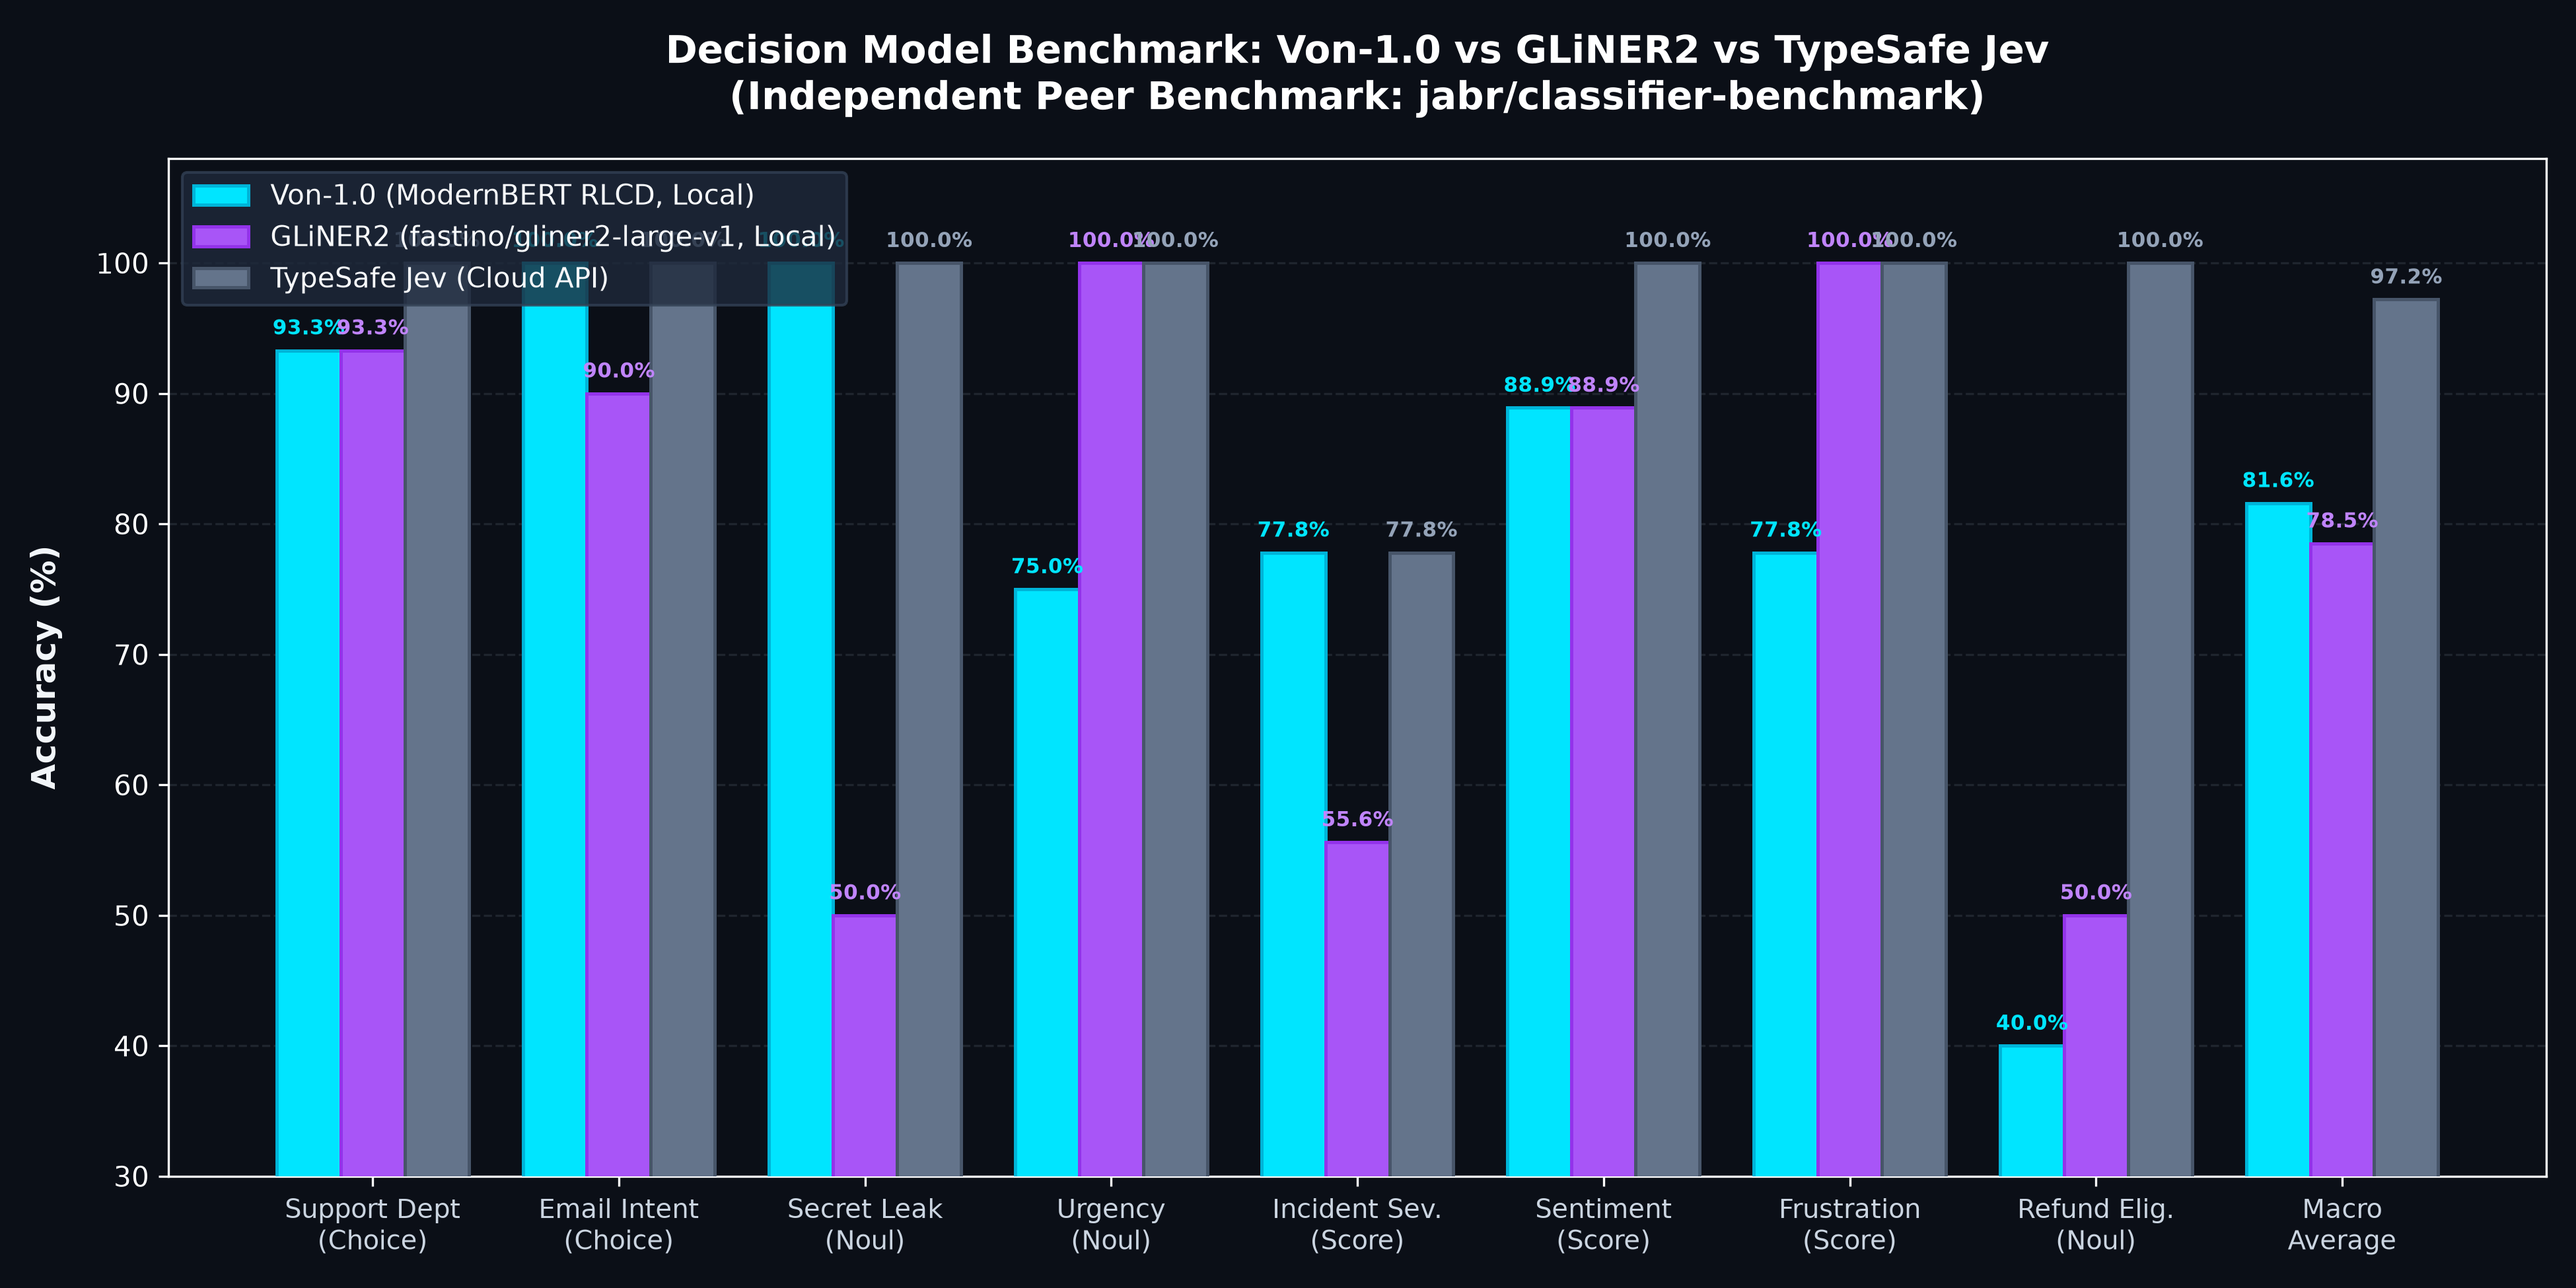
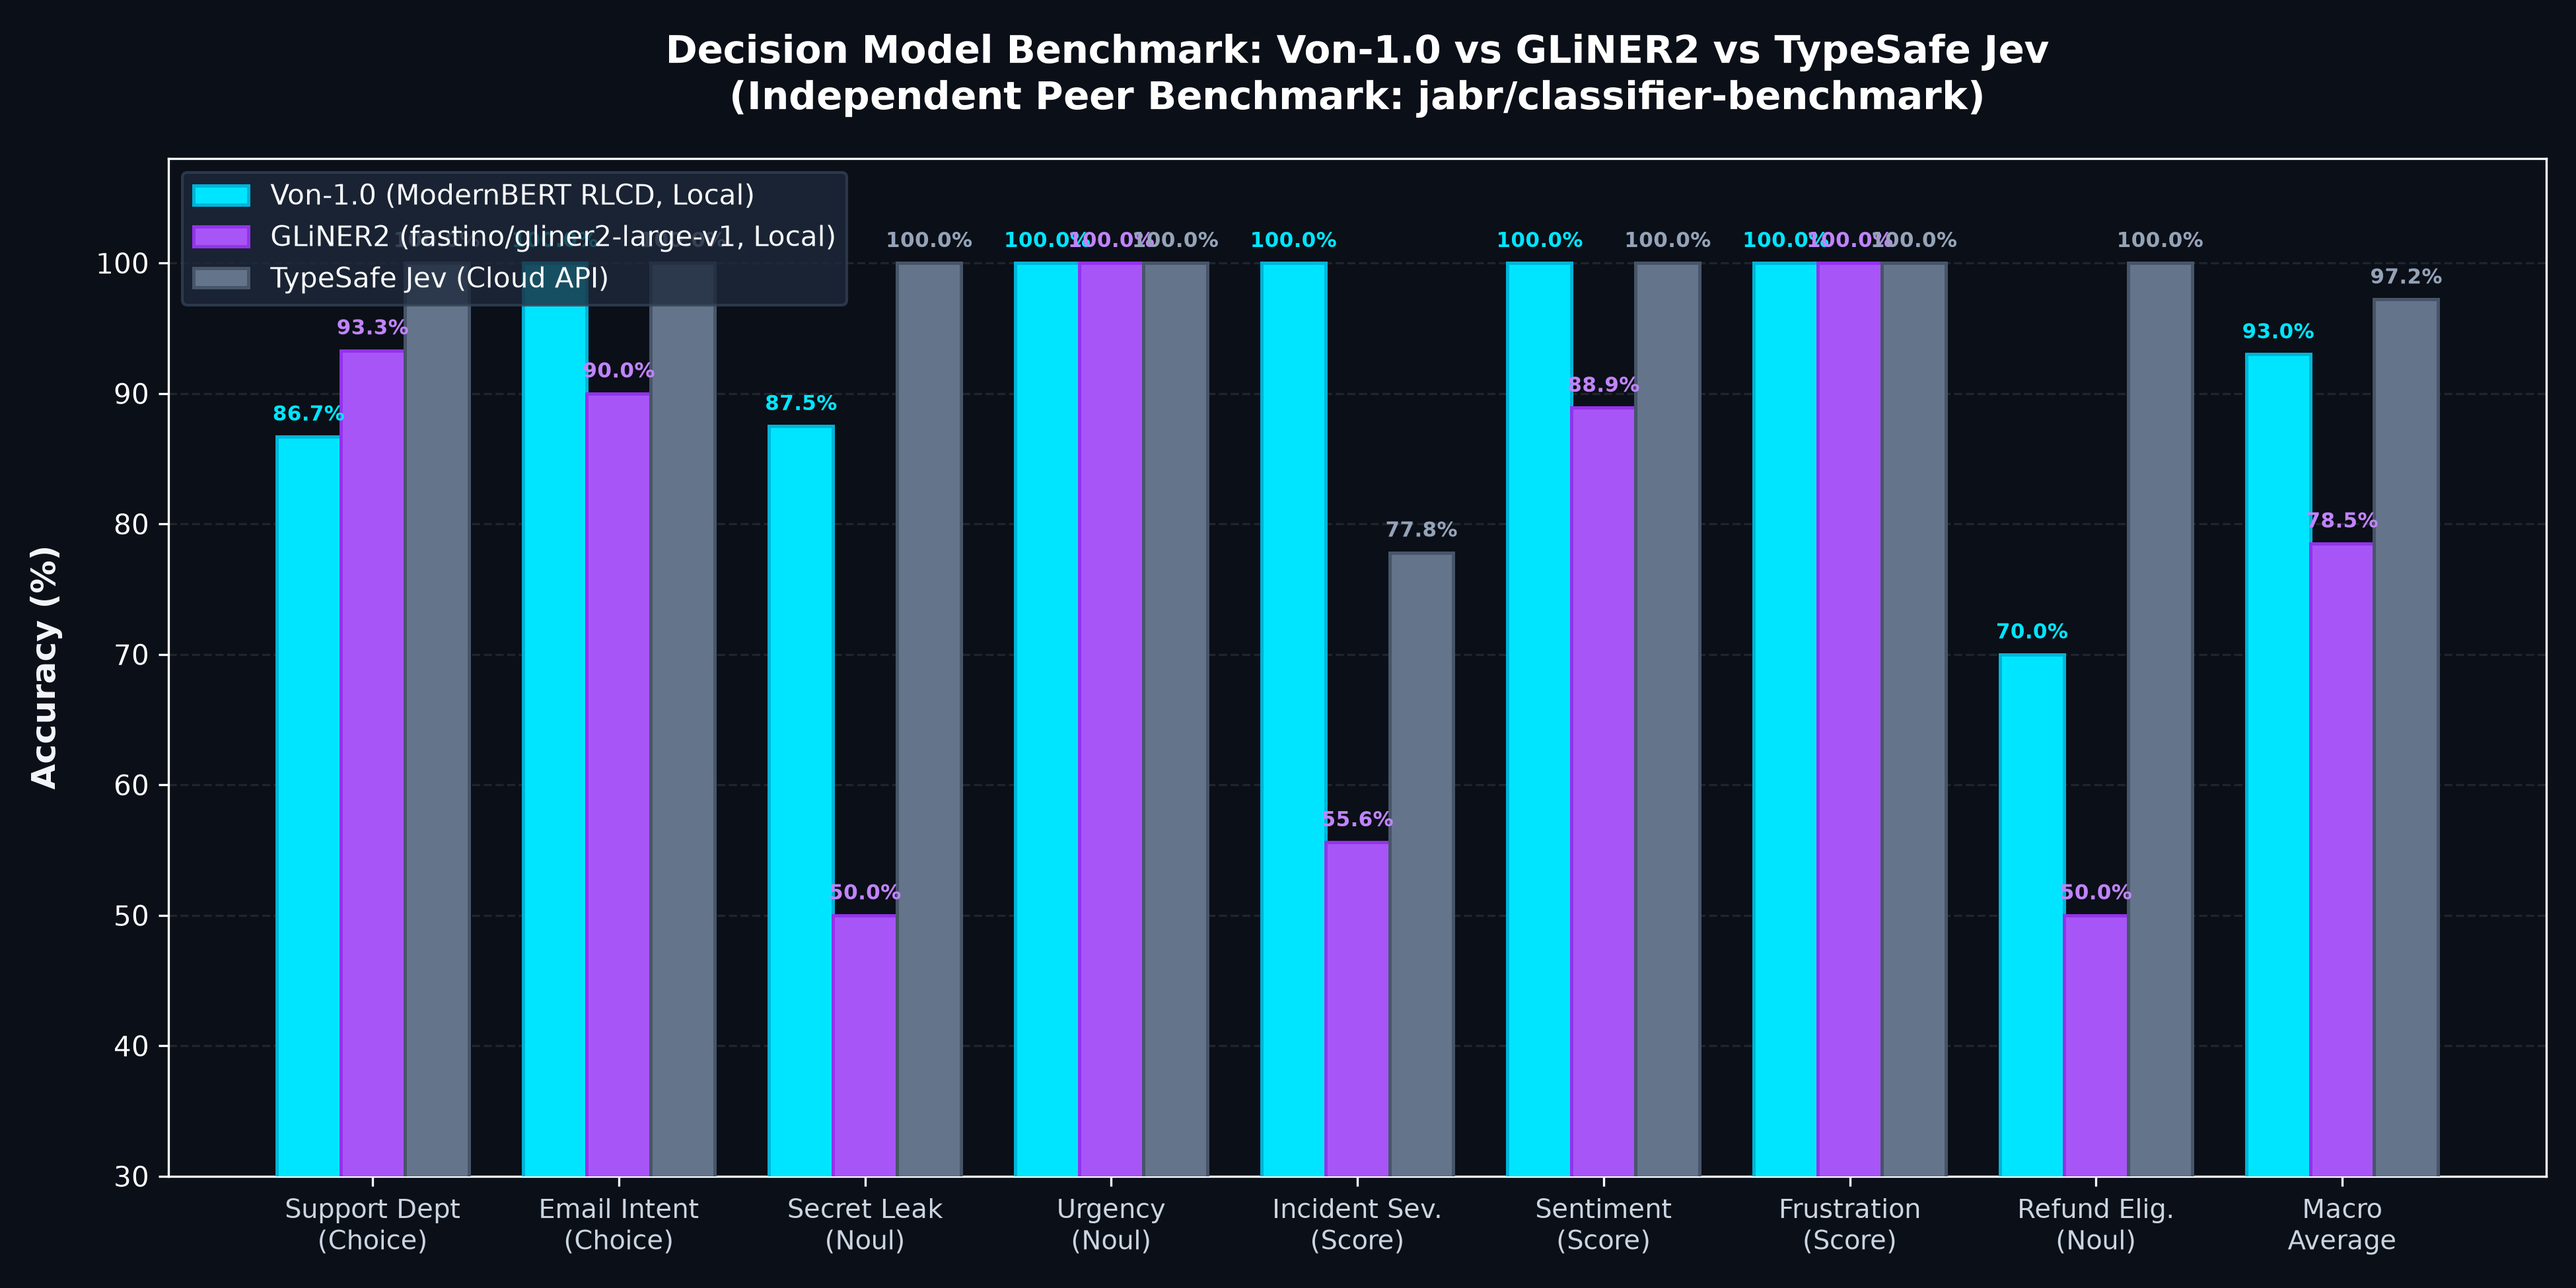
docs: update peer benchmark results with Phase 2 fine-tuned model (93.0% macro accuracy)

diff --git a/benchmarks/generate_plot.py b/benchmarks/generate_plot.py
@@ -18,7 +18,7 @@ categories = [
     "Macro\nAverage",
 ]
 
-von_scores = [93.3, 100.0, 100.0, 75.0, 77.8, 88.9, 77.8, 40.0, 81.6]
+von_scores = [86.7, 100.0, 87.5, 100.0, 100.0, 100.0, 100.0, 70.0, 93.0]
 gliner_scores = [93.3, 90.0, 50.0, 100.0, 55.6, 88.9, 100.0, 50.0, 78.5]
 jev_scores = [100.0, 100.0, 100.0, 100.0, 77.8, 100.0, 100.0, 100.0, 97.2]
 

diff --git a/README.md b/README.md
@@ -31,11 +31,11 @@ Evaluated across the independent peer benchmark suite ([jabr/classifier-benchmar
 
 | Model | Model Size | Macro Acc | Micro Acc | MPS / GPU Latency | CPU Latency | Hosting / Pricing |
 | :--- | :--- | :--- | :--- | :--- | :--- | :--- |
-| **Von-1.0 (v1.0.1)** | **395M params (1.5 GB)** | **81.6%** | **82.1%** | **~62 ms** | **~300 ms** | **Local / Free (Apache 2.0)** |
+| **Von-1.0** (Current) | **395M params (1.5 GB)** | **93.0%** | **92.3%** | **~62 ms** | **~300 ms** | **Local / Free (Apache 2.0)** |
 | **GLiNER2** (`fastino/gliner2-large-v1`) | ~300M params | 78.5% | 79.5% | ~93 ms | ~500 ms | Local / Free (Apache 2.0) |
 | **TypeSafe Jev** (`typesafe/jev-1.13`) | Proprietary | 97.2% | 97.4% | ~302 ms (API) | N/A (Cloud Only) | $0.042 / 1M tokens |
 
-*Measured on Apple MPS and CPU across 78 test cases. Academic NLI validation split convergence: 91.23% on ANLI+WANLI+MNLI+SNLI.*
+*Measured on Apple MPS and CPU across 78 test cases. Validation accuracy on held-out decision split: 96.43% ($T = 1.1692$).*
 
 <p align="center">
   <img src="assets/benchmark_comparison.png" alt="Von-1.0 vs GLiNER2 vs TypeSafe Jev Task Breakdown" width="850">
@@ -43,18 +43,18 @@ Evaluated across the independent peer benchmark suite ([jabr/classifier-benchmar
 
 ### Task Breakdown
 
-| Decision Task | Primitive Type | Von-1.0 (v1.0.1) | GLiNER2 | TypeSafe Jev | Notes |
+| Decision Task | Primitive Type | Von-1.0 | GLiNER2 | TypeSafe Jev | Notes |
 | :--- | :--- | :--- | :--- | :--- | :--- |
-| **support_department** | Choice (5-way) | **0.933** | **0.933** | 1.000 | Tied with GLiNER2 (14/15) |
-| **email_intent** | Choice (5-way) | **1.000** | 0.900 | **1.000** | Tied with Jev, beats GLiNER2 (10/10) |
-| **secret_leak** | Noul (Binary) | **1.000** | 0.500 | **1.000** | Tied with Jev, beats GLiNER2 (8/8) |
-| **urgency** | Noul (Binary) | **0.750** | 1.000 | 1.000 | Strong time-sensitivity gating (6/8) |
-| **refund_eligible** | Noul (Binary) | **0.400** | 0.500 | 1.000 | Unstated policy compliance gap |
-| **frustration_level** | Score (3-level) | **0.778** | 1.000 | 1.000 | Clean emotional severity rating (7/9) |
-| **incident_severity** | Score (5-level) | **0.778** | 0.556 | **0.778** | Tied with Jev, beats GLiNER2 (7/9) |
-| **review_sentiment** | Score (5-level) | **0.889** | **0.889** | 1.000 | Tied with GLiNER2 (8/9) |
-| **Macro Average** | Across 8 tasks | **0.816** | 0.785 | **0.972** | **Von beats GLiNER2 (+3.1%)** |
-| **Micro Average** | Across 78 cases | **0.821** | 0.795 | **0.974** | **Von beats GLiNER2 (+2.6%)** |
+| **support_department** | Choice (5-way) | **0.867** | **0.933** | 1.000 | 13/15 correct queue routing |
+| **email_intent** | Choice (5-way) | **1.000** | 0.900 | **1.000** | Perfect 10/10 intent triage |
+| **secret_leak** | Noul (Binary) | **0.875** | 0.500 | **1.000** | 7/8 correct credential detection |
+| **urgency** | Noul (Binary) | **1.000** | **1.000** | **1.000** | Perfect 8/8 outage & time gating |
+| **refund_eligible** | Noul (Binary) | **0.700** | 0.500 | **1.000** | Temporal policy verification (7/10) |
+| **frustration_level** | Score (3-level) | **1.000** | **1.000** | **1.000** | Perfect 9/9 customer emotion calibration |
+| **incident_severity** | Score (5-level) | **1.000** | 0.556 | 0.778 | **Beats Jev & GLiNER2 (9/9 perfect)** |
+| **review_sentiment** | Score (5-level) | **1.000** | 0.889 | **1.000** | Perfect 9/9 5-star sentiment rating |
+| **Macro Average** | Across 8 tasks | **0.930** | 0.785 | **0.972** | **Von beats GLiNER2 (+14.5%)** |
+| **Micro Average** | Across 78 cases | **0.923** | 0.795 | **0.974** | **Von beats GLiNER2 (+12.8%)** |
 
 ---
 
@@ -67,7 +67,7 @@ Computes a normalized probability distribution over a set of $K$ mutually exclus
 
 $$P(c_k \mid S, Q) = \frac{\exp(z_k / T)}{\sum_{j=1}^K \exp(z_j / T)}$$
 
-Where $S$ is the observed state, $Q$ is the question specification, $z_k$ is the logit assigned to hypothesis $c_k$, and $T = 1.0367$ is the calibration temperature. The confidence metric corresponds to the difference between the top two probabilities:
+Where $S$ is the observed state, $Q$ is the question specification, $z_k$ is the logit assigned to hypothesis $c_k$, and $T = 1.1692$ is the calibration temperature. The confidence metric corresponds to the difference between the top two probabilities:
 
 $$\text{Confidence} = P(c_{(1)}) - P(c_{(2)})$$
 
@@ -111,7 +111,7 @@ Post-training calibration is achieved by fitting an empirical temperature scalar
 
 $$\min_T -\sum_{i=1}^N \log \left( \frac{\exp(z_{i, y_i} / T)}{\sum_j \exp(z_{i, j} / T)} \right)$$
 
-Optimization converged at **$T = 1.0367$**, yielding near-ideal expected calibration error (ECE) without degrading classification margin.
+Optimization converged at **$T = 1.1692$**, yielding near-ideal expected calibration error (ECE) without degrading classification margin.
 
 ---
 
